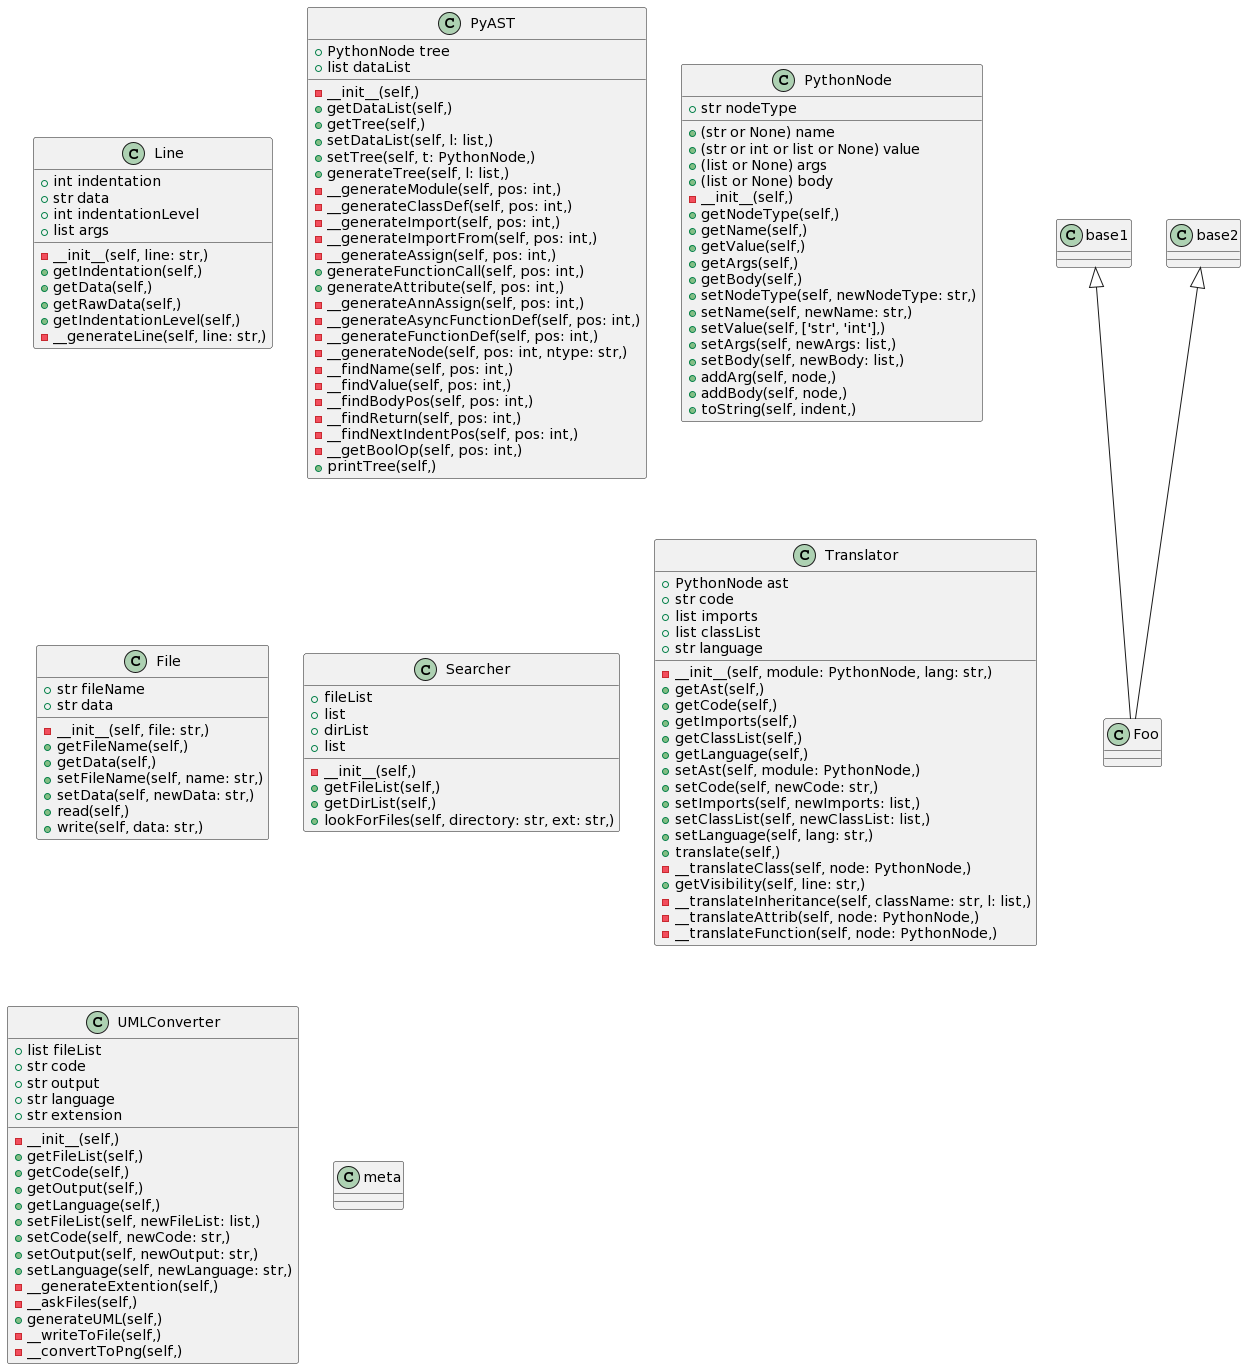
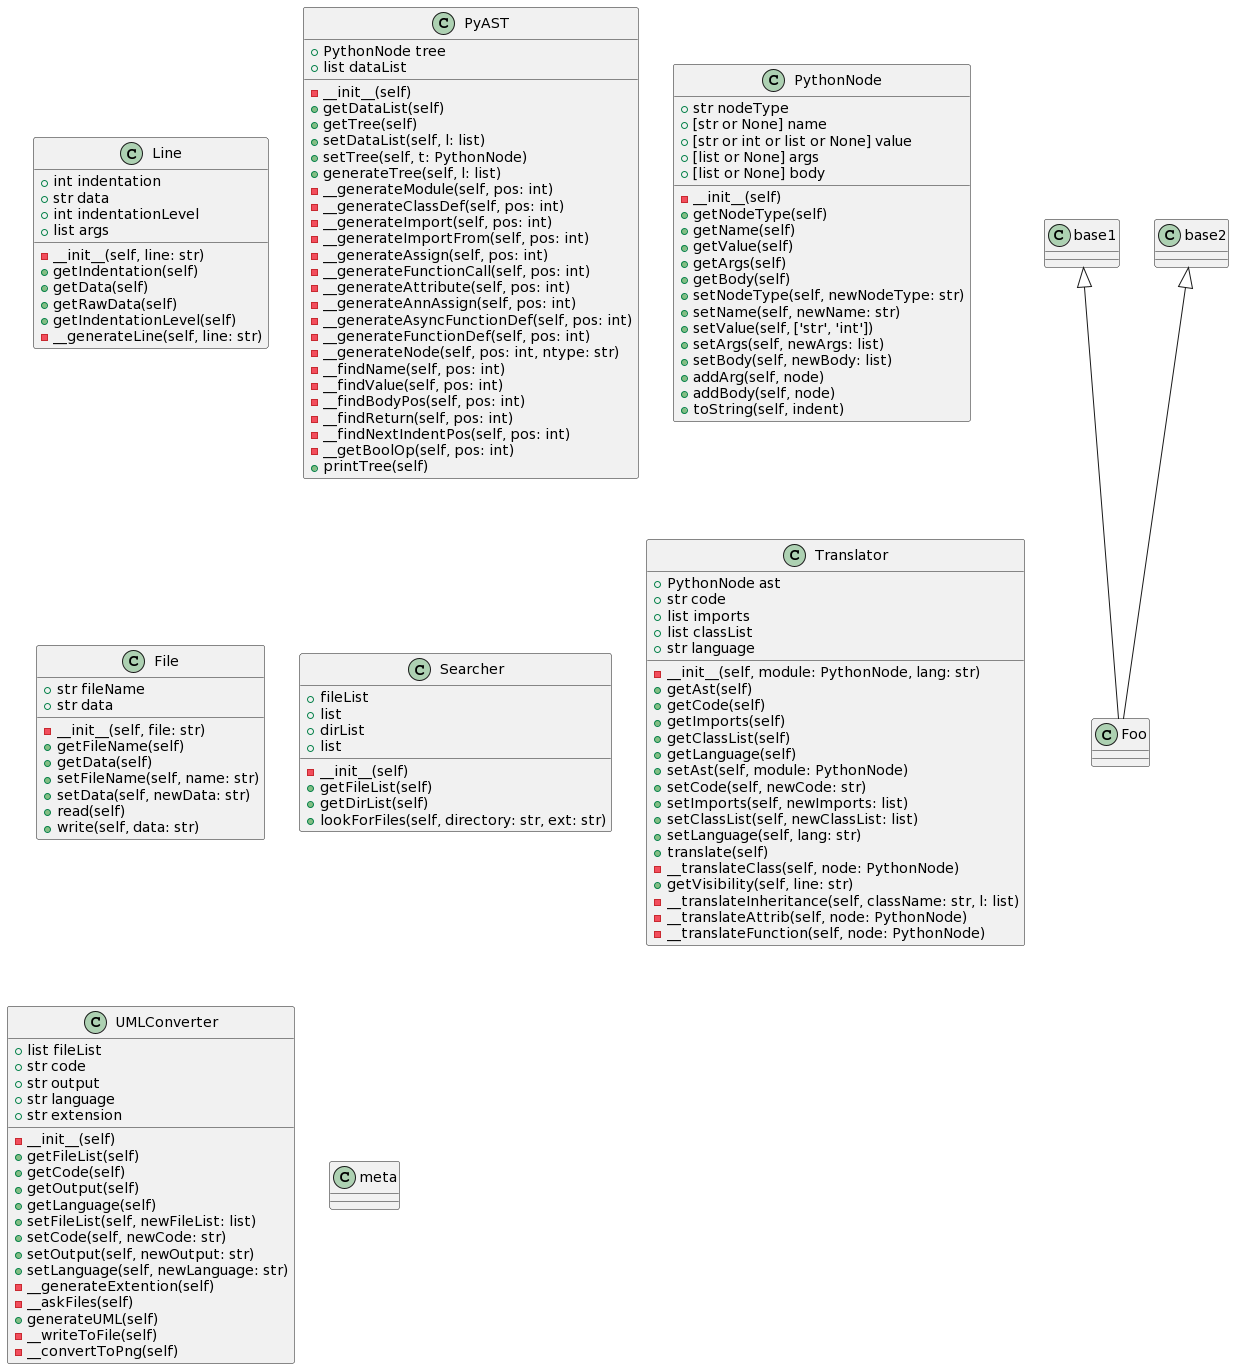
fixed visual bug with , and attribs in uml png

diff --git a/app/modules/uml_module/translator.py b/app/modules/uml_module/translator.py
@@ -7,7 +7,7 @@
 #   @Email:              adrianepi@gmail.com
 #   @GitHub:             https://github.com/AdrianEpi
 #   @Last Modified by:   Adrian Epifanio
-#   @Last Modified time: 2022-12-20 09:51:35
+#   @Last Modified time: 2022-12-21 19:05:01
 #   @Description:        Translates generated AST to mermaid language.
 
 
@@ -157,9 +157,9 @@ class Translator:
 		else: # AnnAssign
 			types = ""
 			if isinstance(node.getValue(), list):
-				types = "("
+				types = "["
 				types += " or ".join(node.getValue())
-				types += ")"
+				types += "]"
 			else:
 				types = node.getValue()
 			return "    " + self.getVisibility(node.getName()) + " " + types + " " + node.getName()
@@ -173,7 +173,7 @@ class Translator:
 				args += i + ", "
 			elif isinstance(i, PythonNode):
 				args += i.getName() + ", "
-		args = args[:(len(args) - 1)]
+		args = args[:(len(args) - 2)]
 		return data + args + ")"
 
 
